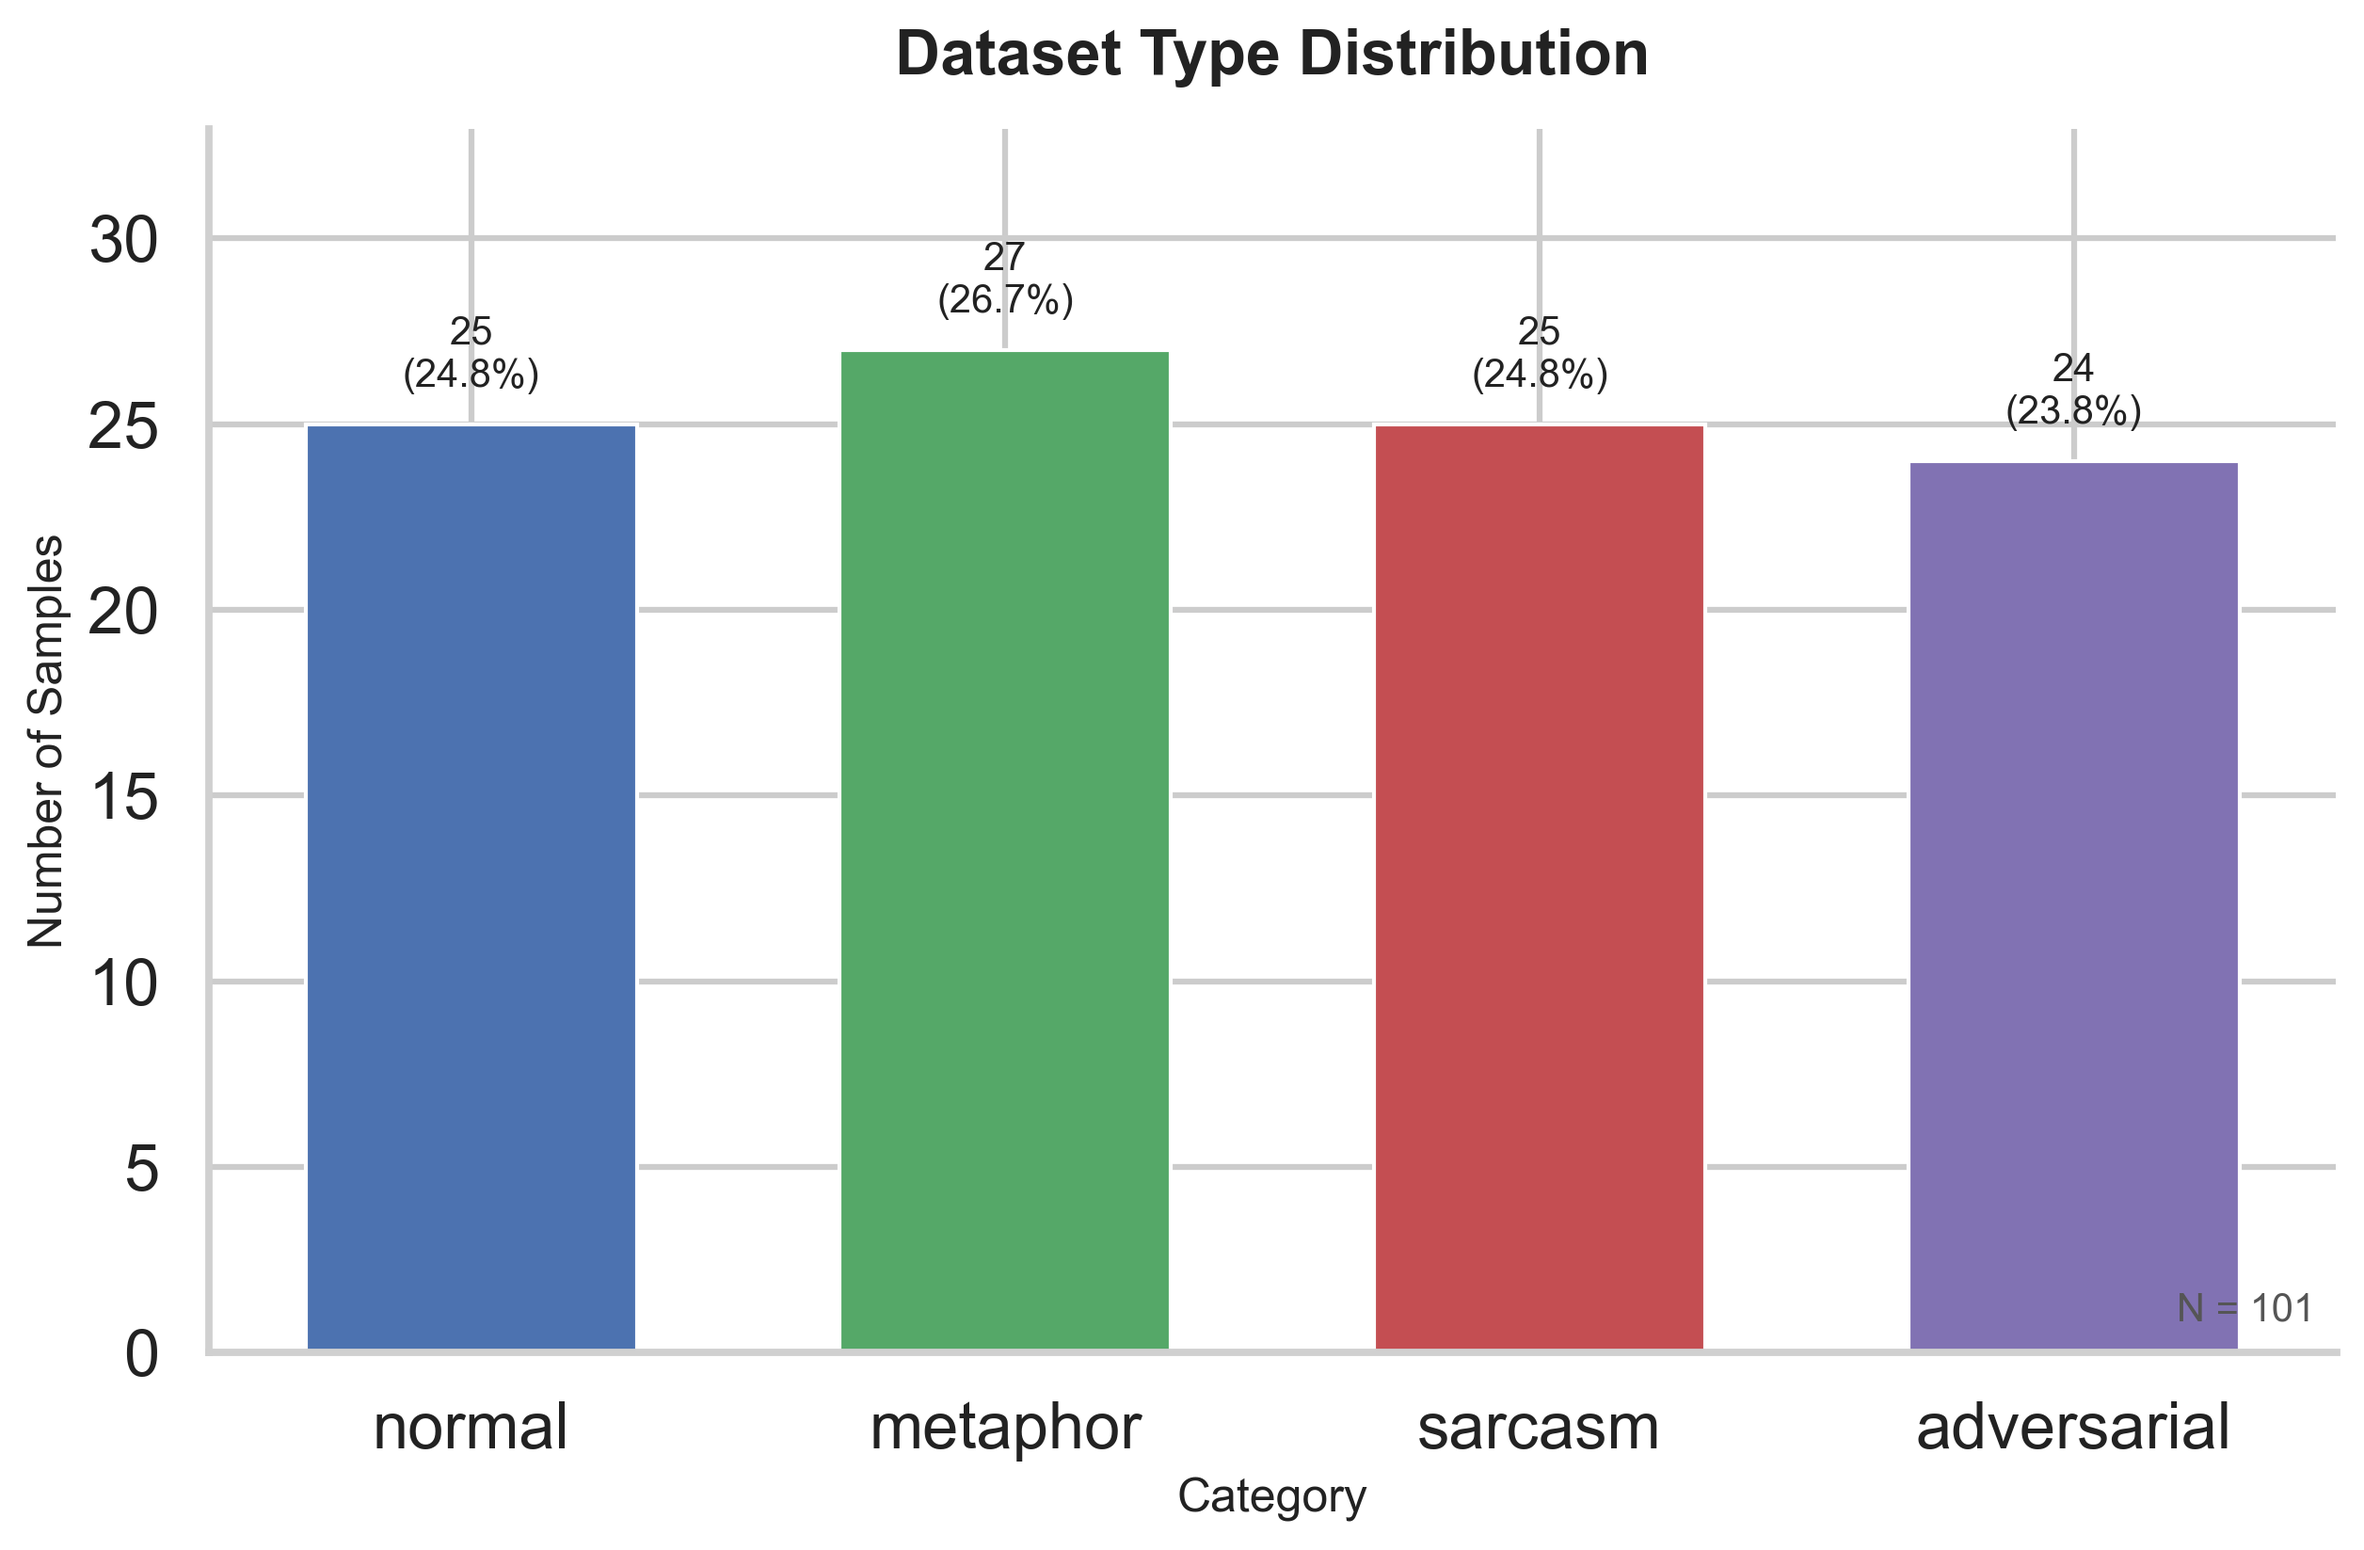
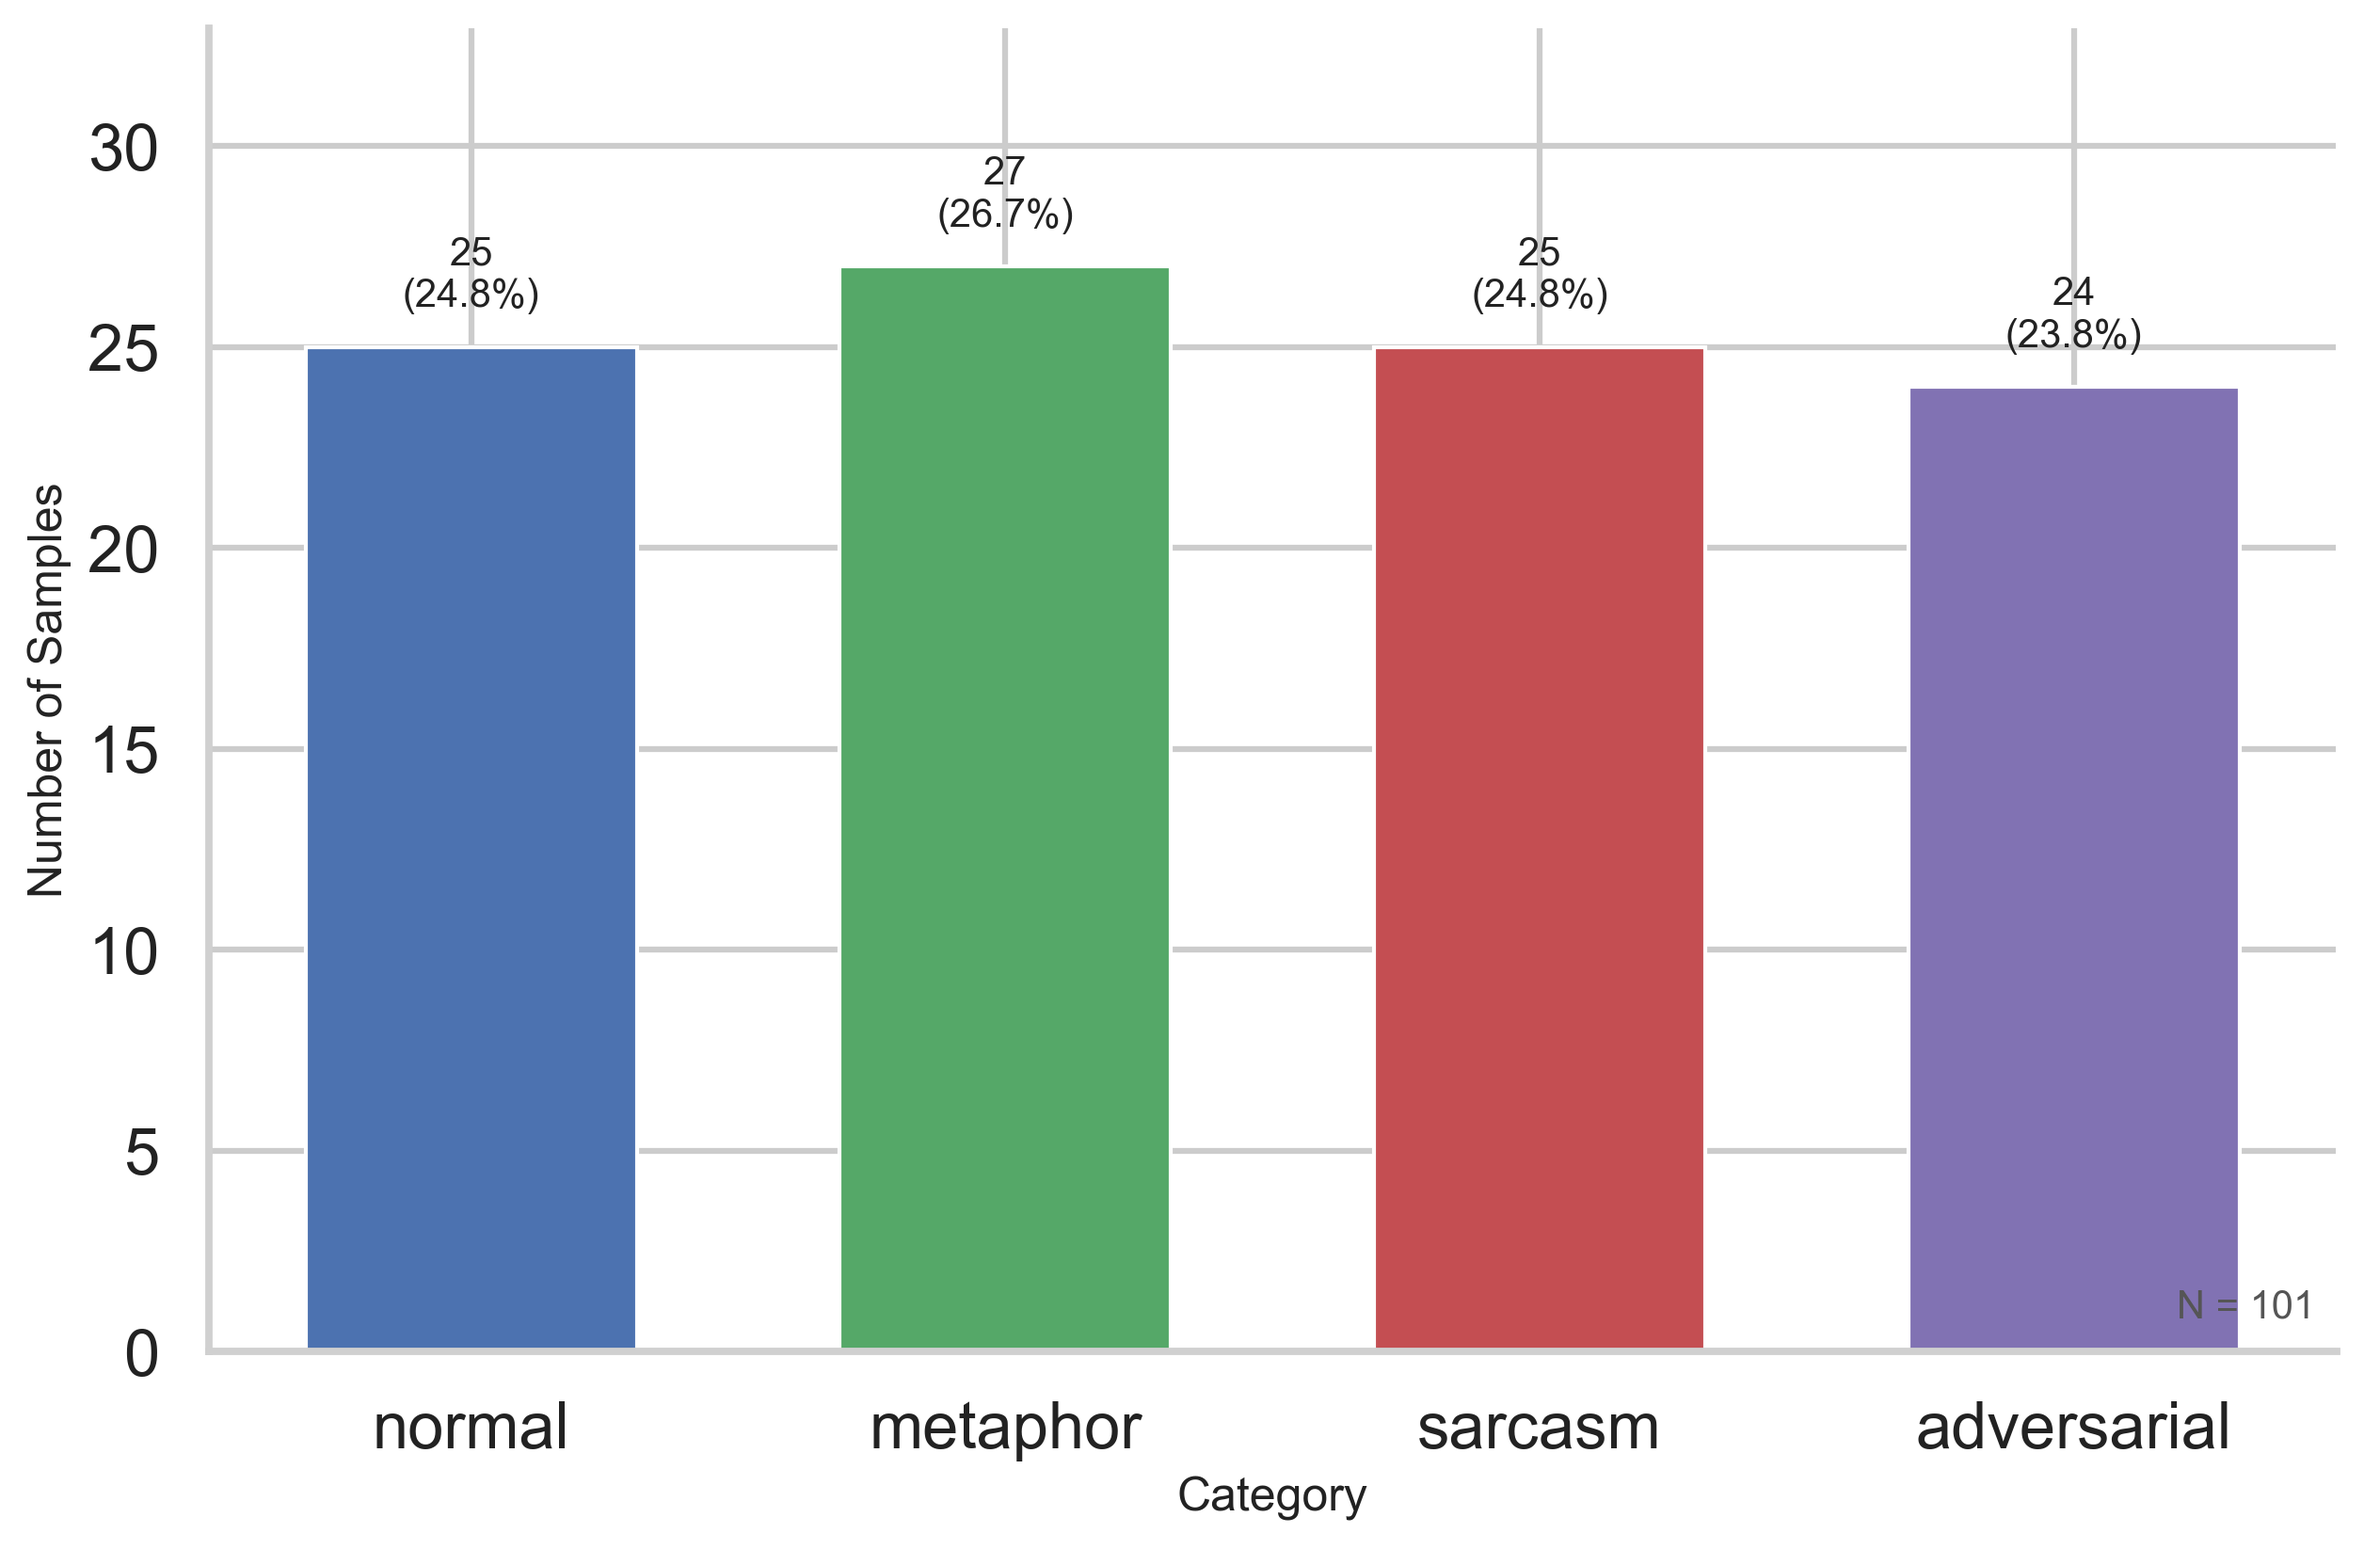
chore(docs): sync paper figures — remove on-chart titles, add figure index, regenerate figures and update docs

diff --git a/scripts/generate_paper_figures.py b/scripts/generate_paper_figures.py
@@ -4,6 +4,7 @@ import argparse
 import json
 from collections import Counter
 from pathlib import Path
+import sys
 
 import matplotlib
 
@@ -15,6 +16,13 @@ import seaborn as sns
 
 
 ROOT = Path(__file__).resolve().parents[1]
+SRC = ROOT / "src"
+if str(ROOT) not in sys.path:
+    sys.path.insert(0, str(ROOT))
+if str(SRC) not in sys.path:
+    sys.path.insert(0, str(SRC))
+
+from visualization.confusion_matrix import plot_confusion_matrix
 
 
 def load_json(path: Path) -> object:
@@ -79,7 +87,6 @@ def plot_distribution_bar(title: str, ylabel: str, counts: Counter, palette: lis
     total = sum(values)
     fig, ax = plt.subplots(figsize=(8.5, 5.6))
     bars = ax.bar(labels, values, color=palette[: len(labels)], width=0.62, edgecolor="#FFFFFF", linewidth=1.0)
-    ax.set_title(title, pad=14, weight="semibold")
     ax.set_xlabel("Category")
     ax.set_ylabel(ylabel)
     ax.set_ylim(0, max(values) * 1.22)
@@ -144,19 +151,9 @@ def plot_project_structure(output_path: Path) -> Path:
     fig = plt.figure(figsize=(12.5, 8))
     ax = fig.add_subplot(111)
     ax.axis("off")
-    fig.suptitle("Project Directory Structure Overview", y=0.98, fontsize=18, fontweight="semibold")
-    fig.text(
-        0.035,
-        0.92,
-        "Condensed workspace tree rendered from the current EmotionBench repository.",
-        ha="left",
-        va="top",
-        fontsize=11,
-        color="#555555",
-    )
     fig.text(
         0.04,
-        0.86,
+        0.96,
         tree_text,
         family="monospace",
         fontsize=12,
@@ -198,7 +195,6 @@ def plot_grouped_comparison(
     fig, ax = plt.subplots(figsize=(max(11, len(records) * 1.6), 6.8))
     palette = sns.color_palette("Set2", n_colors=len(metrics))
     sns.barplot(data=df, x="Label", y="Value", hue="Metric", palette=palette, ax=ax)
-    ax.set_title(title, pad=14, weight="semibold")
     ax.set_xlabel("")
     ax.set_ylabel("Score")
     ax.set_ylim(0, 1.05)
@@ -306,7 +302,6 @@ def plot_real_model_heatmap(records: list[dict[str, object]], output_path: Path)
         cbar_kws={"label": "Accuracy"},
         ax=ax,
     )
-    ax.set_title("Model Type-wise Accuracy Heatmap", pad=14, weight="semibold")
     ax.set_xlabel("Text Category")
     ax.set_ylabel("Model")
     return save_figure(fig, output_path)
@@ -355,6 +350,20 @@ def build_figures(dataset_dir: Path, results_root: Path, output_dir: Path) -> li
             rotate_x=True,
         )
     )
+
+    for _, summary_path, filename in [
+        ("Majority-Negative", results_root / "expanded" / "majority_negative_summary.json", "majority_negative_confusion_matrix.png"),
+        ("Literal-Keyword", results_root / "expanded" / "literal_keyword_summary.json", "literal_keyword_confusion_matrix.png"),
+        ("Prompt-Aware", results_root / "expanded" / "prompt_aware_summary.json", "prompt_aware_confusion_matrix.png"),
+    ]:
+        summary = load_summary(summary_path)
+        figure_paths.append(
+            plot_confusion_matrix(
+                summary["confusion_matrix"],
+                summary["labels"],
+                output_dir / filename,
+            )
+        )
 
     real_model_records = load_real_models(results_root / "runs")
     figure_paths.append(
@@ -414,6 +423,9 @@ def write_index(output_dir: Path, figures: list[Path]) -> Path:
         "dataset_type_distribution.png": "Distribution over benchmark sample types.",
         "project_directory_structure.png": "Condensed repository tree for the project overview section.",
         "rule_based_baseline_comparison.png": "Comparison of rule-based baselines on the expanded benchmark.",
+        "majority_negative_confusion_matrix.png": "Confusion matrix for the majority-negative baseline.",
+        "literal_keyword_confusion_matrix.png": "Confusion matrix for the literal-keyword baseline.",
+        "prompt_aware_confusion_matrix.png": "Confusion matrix for the prompt-aware baseline.",
         "real_model_overall_comparison.png": "Overall performance comparison across real models.",
         "model_type_wise_accuracy_heatmap.png": "Per-type accuracy heatmap for each real model.",
         "prompt_comparison.png": "Baseline versus CoT prompt comparison on the Gemini 2.5 Pro subset.",

diff --git a/visualization/confusion_matrix.py b/visualization/confusion_matrix.py
@@ -13,7 +13,6 @@ def plot_confusion_matrix(matrix: list[list[int]], labels: list[str], output_pat
     sns.heatmap(matrix, annot=True, fmt="d", cmap="Blues", xticklabels=labels, yticklabels=labels)
     plt.xlabel("Predicted")
     plt.ylabel("Gold")
-    plt.title("EmotionBench Confusion Matrix")
     plt.tight_layout()
     plt.savefig(output_path, dpi=200)
     plt.close()

diff --git a/visualization/radar_chart.py b/visualization/radar_chart.py
@@ -23,7 +23,6 @@ def plot_radar_chart(scores: dict[str, float], output_path: str | Path) -> Path:
     ax.set_xticks(angles[:-1])
     ax.set_xticklabels(labels)
     ax.set_yticklabels([])
-    ax.set_title("EmotionBench Capability Radar")
     ax.set_ylim(0, 1)
     plt.tight_layout()
     plt.savefig(output_path, dpi=200)

diff --git a/reports/论文内容现状与写作规划.md b/reports/论文内容现状与写作规划.md
@@ -292,24 +292,29 @@ Literal-Keyword 与 Prompt-Aware 的差异说明：
 
 ## 9. 已生成的图表文件
 
-本次已经生成一组论文配图，统一保存在：
+本次已经整理出论文配图，最新版统一保存在：
 
-`reports/论文图表/`
+`reports/figures/`
 
 对应文件如下：
 
-- `图1_数据集标签分布图.png`
-- `图2_数据集类型分布图.png`
-- `图3_规则基线总体对比图.png`
-- `图4_真实模型总体表现对比图.png`
-- `图5_真实模型分类型准确率热力图.png`
-- `图6_提示词对比图.png`
-- `图7_提示感知基线混淆矩阵.png`
-- `图8_提示感知基线雷达图.png`
+- `dataset_label_distribution.png`
+- `dataset_type_distribution.png`
+- `framework_architecture.png`
+- `literal_keyword_confusion_matrix.png`
+- `majority_negative_confusion_matrix.png`
+- `model_type_wise_accuracy_heatmap.png`
+- `project_directory_structure.png`
+- `prompt_aware_confusion_matrix.png`
+- `prompt_comparison.png`
+- `real_model_overall_comparison.png`
+- `rule_based_baseline_comparison.png`
 
 另外还生成了图表索引文件：
 
-- `reports/论文图表/图表清单.md`
+- `reports/figures/figure_index.md`
+
+> 说明：`reports/论文图表/` 仍保留历史中文命名版本，当前论文写作优先引用 `reports/figures/` 这一套最新版文件。
 
 ---
 

diff --git a/reports/figures/figure_index.md b/reports/figures/figure_index.md
@@ -7,6 +7,9 @@ All figure captions and on-chart text are in English for paper submission.
 | `dataset_type_distribution.png` | Distribution over benchmark sample types. |
 | `project_directory_structure.png` | Condensed repository tree for the project overview section. |
 | `rule_based_baseline_comparison.png` | Comparison of rule-based baselines on the expanded benchmark. |
+| `majority_negative_confusion_matrix.png` | Confusion matrix for the majority-negative baseline. |
+| `literal_keyword_confusion_matrix.png` | Confusion matrix for the literal-keyword baseline. |
+| `prompt_aware_confusion_matrix.png` | Confusion matrix for the prompt-aware baseline. |
 | `real_model_overall_comparison.png` | Overall performance comparison across real models. |
 | `model_type_wise_accuracy_heatmap.png` | Per-type accuracy heatmap for each real model. |
 | `prompt_comparison.png` | Baseline versus CoT prompt comparison on the Gemini 2.5 Pro subset. |

diff --git a/README.md b/README.md
@@ -134,14 +134,21 @@ python scripts/generate_paper_figures.py --write-index
 
 ## Paper figures
 
-The following figures are tracked in the repository for paper use:
+The latest paper-ready figures are stored under `reports/figures/`, and the full manifest lives in `reports/figures/figure_index.md`.
 
-- Baseline comparison
-- Prompt comparison
-- Real-model overall comparison
-- Type-wise accuracy heatmap
+Tracked figure families include:
+
 - Dataset label distribution
 - Dataset type distribution
+- Benchmark architecture overview
+- Project directory structure overview
+- Rule-based baseline comparison
+- Majority-negative confusion matrix
+- Literal-keyword confusion matrix
+- Prompt-aware confusion matrix
+- Real-model overall comparison
+- Type-wise accuracy heatmap
+- Prompt comparison
 
 ## Reproducibility notes
 

diff --git a/reports/EmotionBench_detailed_report.md b/reports/EmotionBench_detailed_report.md
@@ -3,7 +3,7 @@
 - 项目名称：EmotionBench
 - 项目类型：LLM 复杂情感语义评测框架
 - 当前实验规模：101 条样本，覆盖 normal / sarcasm / metaphor / adversarial 四类文本
-- 工程规模：仓库共 37 个文件，其中 Python 文件 14 个、Markdown 文件 2 个，Python 代码约 918 行、全部可读文本约 1553 行。
+- 工程规模：截至本次整理，仓库共 188 个文件，其中 Python 文件 20 个、Markdown 文件 15 个、PNG 图片 21 张、JSON 文件 96 个。
 - 评测目标：判断模型是否真正理解复杂情感语义，而不是只依赖情感词表面匹配。
 - 标签分布：negative=53，neutral=25，positive=23。
 - 类型分布：normal=25，sarcasm=25，metaphor=27，adversarial=24。
